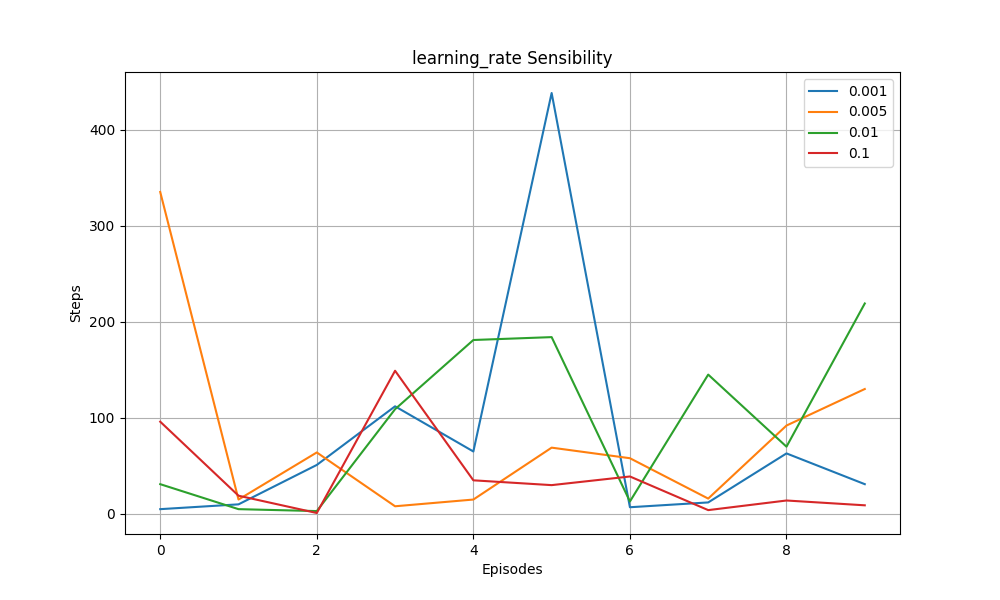
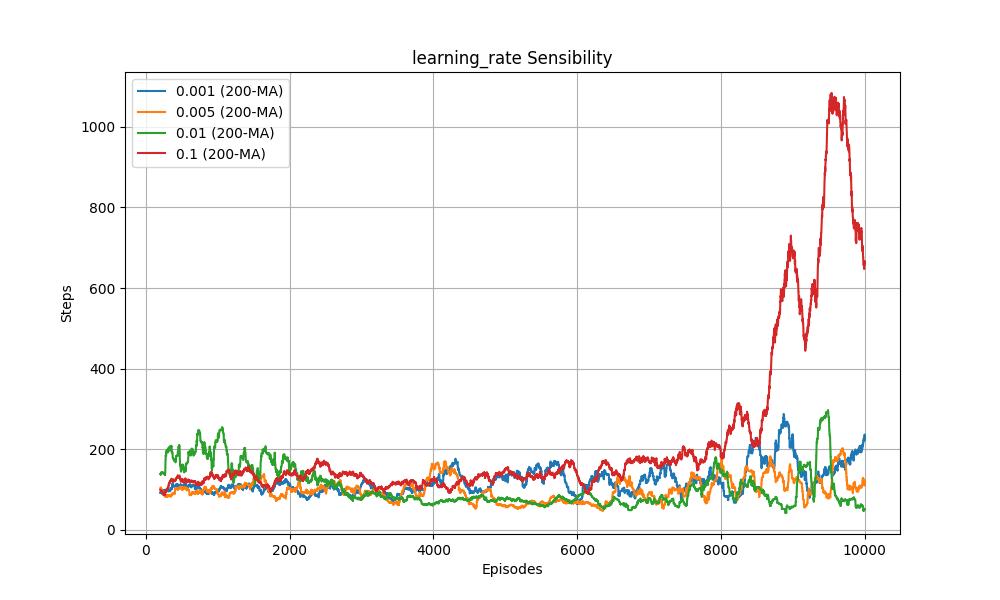
changes to add more params

diff --git a/scripts/draw_train_approach.py b/scripts/draw_train_approach.py
@@ -5,9 +5,12 @@ import seaborn as sns
 import matplotlib.pyplot as plt
 import pandas as pd
 
-def draw_reward_training_graph(data, title, save_path):
+import matplotlib.pyplot as plt
+import pandas as pd
+
+def draw_reward_training_graph(data, title, save_path, ma=100):
     """
-    Draws a reward training graph for the given data.
+    Draws a reward training graph for the given data with a 100-episode moving average.
     
     Parameters:
         data (pd.DataFrame): The input data containing reward columns.
@@ -20,7 +23,9 @@ def draw_reward_training_graph(data, title, save_path):
     for col in data.columns:
         if col.startswith("reward_"):
             label = col.split("_")[-1]
-            plt.plot(data[col], label=f"{label}")
+            # Calculate the 100-episode moving average
+            moving_avg = data[col].rolling(window=ma).mean()
+            plt.plot(moving_avg, label=f"{label} ({ma}-MA)")
     
     plt.title(title)
     plt.xlabel("Episodes")
@@ -30,9 +35,9 @@ def draw_reward_training_graph(data, title, save_path):
     plt.savefig(save_path)
     plt.close()
 
-def draw_steps_training_graph(data, title, save_path):
+def draw_steps_training_graph(data, title, save_path, ma = 100):
     """
-    Draws a steps training graph for the given data.
+    Draws a steps training graph for the given data with a 100-episode moving average.
     
     Parameters:
         data (pd.DataFrame): The input data containing step columns.
@@ -45,7 +50,9 @@ def draw_steps_training_graph(data, title, save_path):
     for col in data.columns:
         if col.startswith("steps_"):
             label = col.split("_")[-1]
-            plt.plot(data[col], label=f"{label}")
+            # Calculate the 100-episode moving average
+            moving_avg = data[col].rolling(window=ma).mean()
+            plt.plot(moving_avg, label=f"{label} ({ma}-MA)")
     
     plt.title(title)
     plt.xlabel("Episodes")
@@ -54,6 +61,7 @@ def draw_steps_training_graph(data, title, save_path):
     plt.grid()
     plt.savefig(save_path)
     plt.close()
+
 
 def draw_success_training_graph(data, title, save_path):
     """
@@ -72,9 +80,9 @@ def draw_success_training_graph(data, title, save_path):
             label = col.split("_")[-1]
             # Count only zeros, ignoring other values and NaN
             zero_count = (data[col] == 0).cumsum()
-            print(f"{col} - {zero_count}")
+            # print(f"{col} - {zero_count}")
             success_rate = zero_count / (data.index + 1)
-            plt.plot(success_rate, label=f"Epsilon {label}")
+            plt.plot(success_rate, label=f"{label}")
 
     plt.title(title)
     plt.xlabel("Episodes")
@@ -102,8 +110,8 @@ if __name__ == "__main__":
         data = pd.read_csv(f"./train_approach/results_{type}.csv")
 
         # Draw the graphs
-        # draw_reward_training_graph(data, f"{type} Sensibility", f"./train_approach/{type}_reward.png")
-        # draw_steps_training_graph(data, f"{type} Sensibility", f"./train_approach/{type}_steps.png")
+        draw_reward_training_graph(data, f"{type} Sensibility", f"./train_approach/{type}_reward.png", 200)
+        draw_steps_training_graph(data, f"{type} Sensibility", f"./train_approach/{type}_steps.png", 200)
         draw_success_training_graph(data, f"{type} Sensibility", f"./train_approach/{type}_success.png")
 
 

diff --git a/scripts/agent_envs_1_2_train.py b/scripts/agent_envs_1_2_train.py
@@ -127,7 +127,7 @@ class SarsaAgent:
         for i in indx:
             self.weights[action][i] += self.learning_rate * td_error
 
-    def train(self, num_episodes):
+    def train(self, num_episodes, decay_start=0.6, decay_rate=0.999, min_epsilon=0.000):
         """
         Train the agent using the SARSA(0) algorithm.
         Parameters:
@@ -147,11 +147,11 @@ class SarsaAgent:
         epsilon = self.epsilon
         # Juega con estos tres hiperparámetros:
         # entre 0 y 1. 
-        decay_start = .6
-        # control del decrecimiento (exponencial) de epsilon
-        decay_rate = 0.999
-        # valor mínimo de epsilon
-        min_epsilon = .000
+        # decay_start = .6
+        # # control del decrecimiento (exponencial) de epsilon
+        # decay_rate = 0.999
+        # # valor mínimo de epsilon
+        # min_epsilon = .000
         
         ####################################
         for episode in range(num_episodes):
@@ -289,6 +289,10 @@ if __name__ == "__main__":
     df = [0.4, 0.7, 0.9, 0.999]
     nt = [4, 8, 12, 18]
     n_wh = [4, 8, 14, 20]
+    ds = [0.2, 0.4, 0.6, 0.8]
+    dr = [0.99, 0.995, 0.999, 0.9999]
+    me = [0.0001, 0.0005, 0.001, 0.005]
+
 
     # To dict
     dict_params = {
@@ -296,7 +300,10 @@ if __name__ == "__main__":
         "epsilon": eps,
         "discount_factor": df,
         "n_tilings": nt,
-        "n_wh": n_wh
+        "n_wh": n_wh,
+        "decay_start": ds,
+        "decay_rate": dr,
+        "min_epsilon": me
     }
 
     model_params ={
@@ -304,7 +311,21 @@ if __name__ == "__main__":
         "discount_factor": 0.999,
         "epsilon": 0.6,
         "n_tilings": 10,
-        "n_wh": 15
+        "n_wh": 15, 
+        "decay_start": 0.6,
+        "decay_rate": 0.999,
+        "min_epsilon": 0.0001
+    }
+
+    model_params_base = {
+        "learning_rate": 0.005,
+        "discount_factor": 0.999,
+        "epsilon": 0.6,
+        "n_tilings": 10,
+        "n_wh": 15, 
+        "decay_start": 0.6,
+        "decay_rate": 0.999,
+        "min_epsilon": 0.0001
     }
 
     rewards = {
@@ -325,7 +346,7 @@ if __name__ == "__main__":
             model_params[key] = v
             feedback = FeedbackConstruction((warehouse_width, warehouse_height),(model_params["n_wh"], model_params["n_wh"]), model_params["n_tilings"], target_area, rewards)
             agent = SarsaAgent(env, feedback, model_params["learning_rate"], model_params["discount_factor"], model_params["epsilon"])
-            return_reward, steps, end = agent.train(tr_episodes)
+            return_reward, steps, end = agent.train(tr_episodes, model_params["decay_start"], model_params["decay_rate"], model_params["min_epsilon"])
 
             #episodes, total_undiscounted_return, steps, collision_wall, collision_obj, num_objective = agent.evaluate(eval_episodes)
             
@@ -334,6 +355,8 @@ if __name__ == "__main__":
             df[f"reward_{v}"] = return_reward
             df[f"steps_{v}"] = steps
             df[f"end_{v}"] = end
+
+            model_params = model_params_base.copy()
 
 
         df.to_csv(f"./train_approach/results_{key}.csv")
